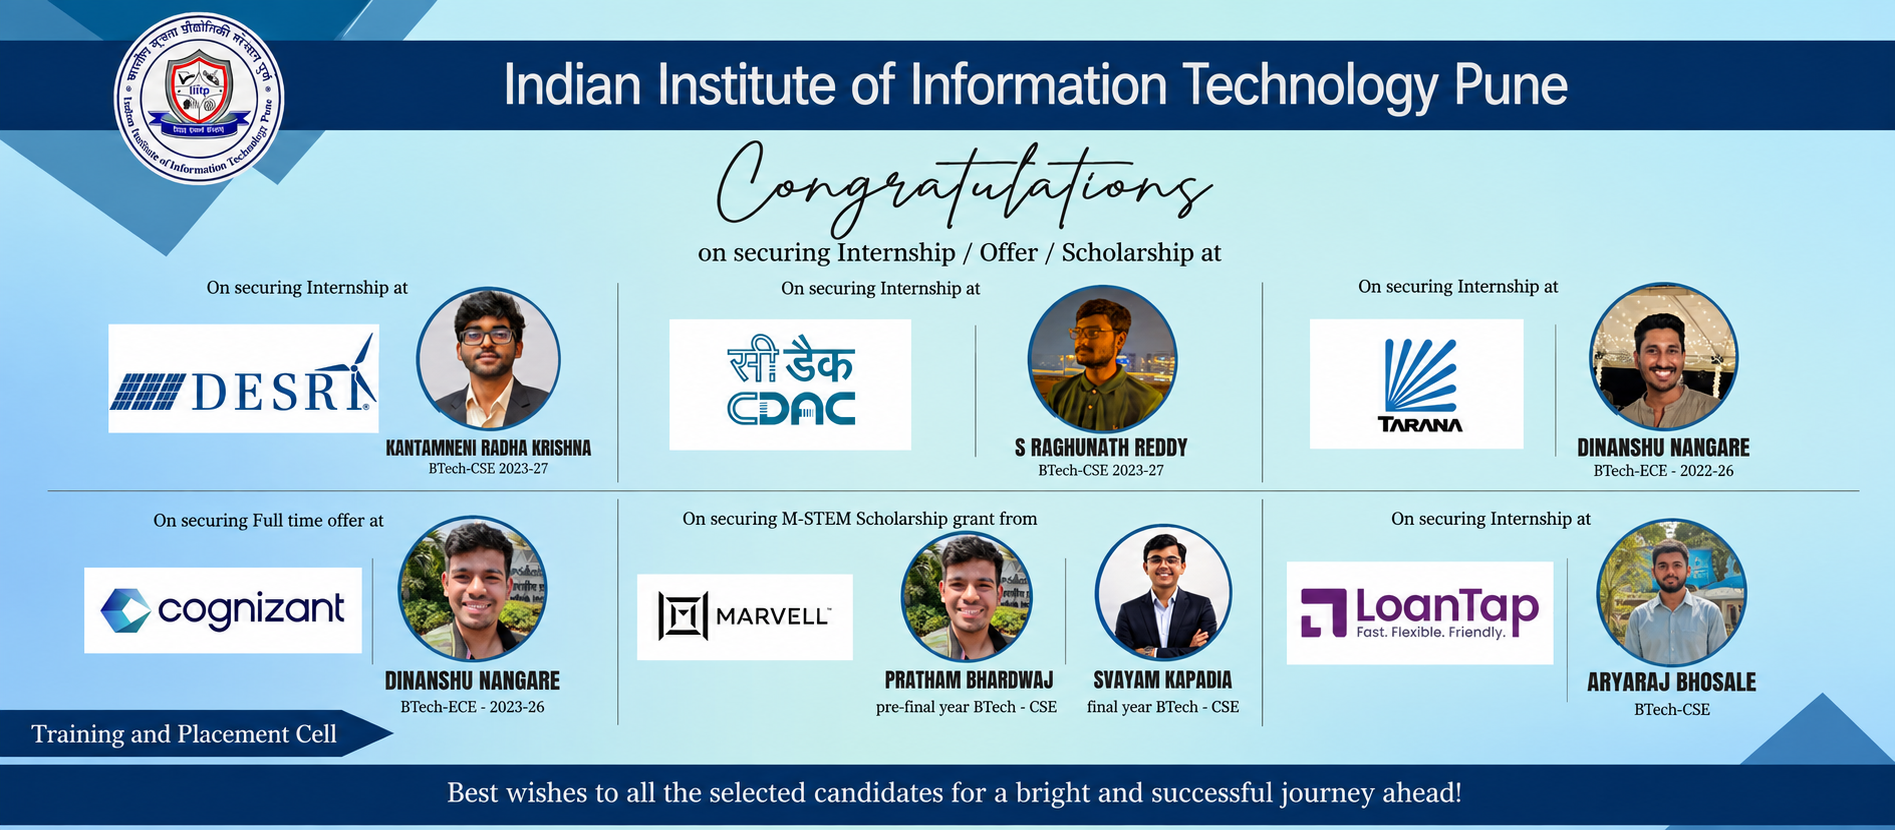
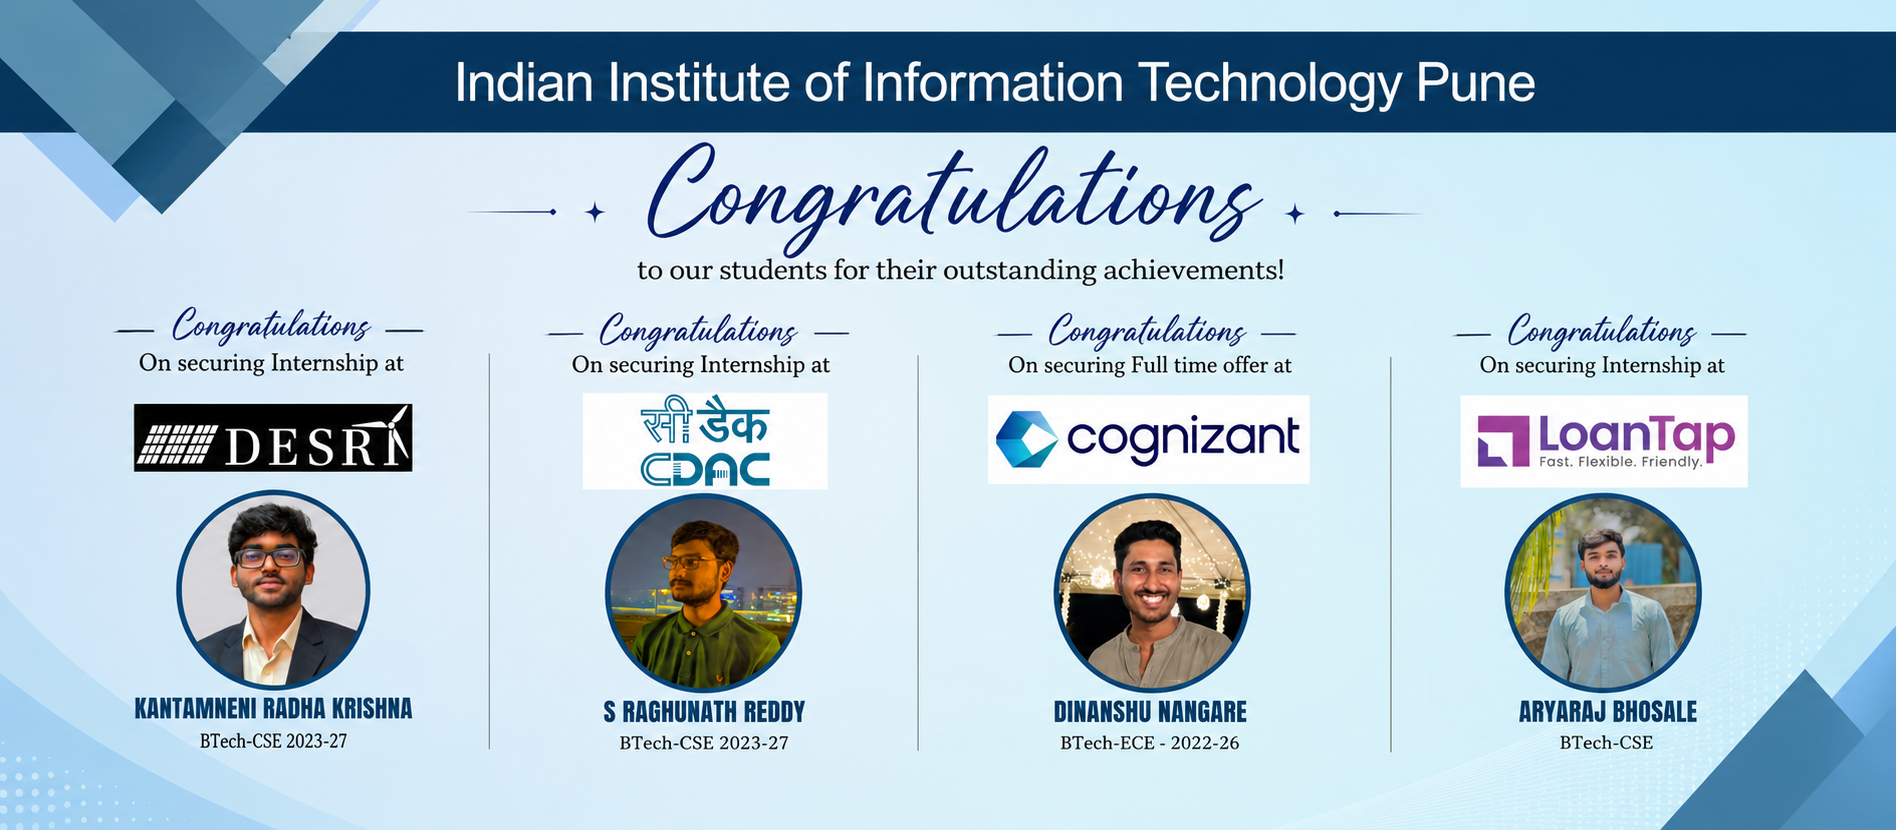
update home page and update slide 3 and 6

diff --git a/src/pages/Home.jsx b/src/pages/Home.jsx
@@ -141,9 +141,10 @@ export default function Home() {
   const heroSlides = [
     "/images/slide_1.png",
     "/images/slide_5.png",
-    "/images/slide_4.png",
     "/images/slide_3.png",
-    "/images/slide_2.png",  
+    "/images/slide_4.png",
+    "/images/slide_6.png",
+    "/images/slide_2.png",
   ];
 
   React.useEffect(() => {
@@ -177,7 +178,7 @@ export default function Home() {
     },
     {
       label: "Average CTC",
-      value: 21.56,
+      value: 17.85,
       prefix: "₹",
       suffix: " LPA",
       decimals: 2,
@@ -186,8 +187,18 @@ export default function Home() {
         "bg-blue-100 text-accent dark:bg-blue-900/30 dark:text-blue-300",
     },
     {
-      label: "Total Offer",
-      value: 120,
+      label: "Median CTC",
+      value: 14.45,
+      prefix: "₹",
+      suffix: " LPA",
+      decimals: 2,
+      icon: Lightbulb,
+      iconClass:
+        "bg-amber-100 text-amber-600 dark:bg-amber-900/30 dark:text-amber-300",
+    },
+    {
+      label: "Total Offers",
+      value: 145,
       suffix: "+",
       decimals: 0,
       icon: Briefcase,
@@ -195,10 +206,10 @@ export default function Home() {
         "bg-violet-100 text-violet-600 dark:bg-violet-900/30 dark:text-violet-300",
     },
     {
-      label: "Placement Rate",
-      value: 71.88,
+      label: "Placement %",
+      value: 71,
       suffix: "%",
-      decimals: 2,
+      decimals: 0,
       icon: TrendingUp,
       iconClass:
         "bg-orange-100 text-orange-600 dark:bg-orange-900/30 dark:text-orange-300",
@@ -267,7 +278,7 @@ export default function Home() {
         </AnimatedSection>
 
         <AnimatedSection delay={0.04}>
-          <div className="grid grid-cols-2 lg:grid-cols-4 gap-4 mb-8">
+          <div className="grid grid-cols-2 lg:grid-cols-5 gap-4 mb-8">
             {keyHighlights.map(({ label, value, icon: Icon, iconClass, prefix, suffix, decimals }) => (
               <div
                 key={label}
